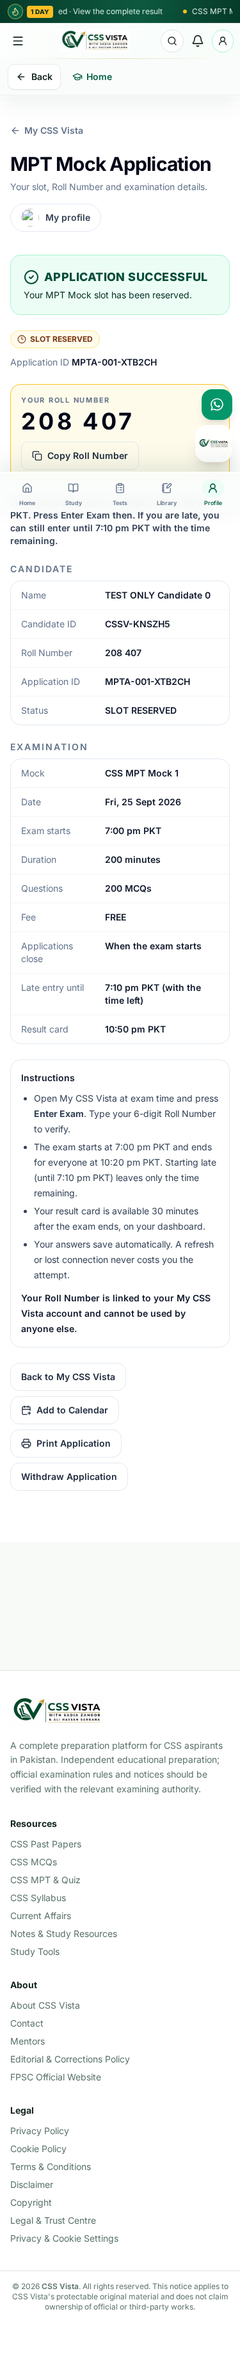
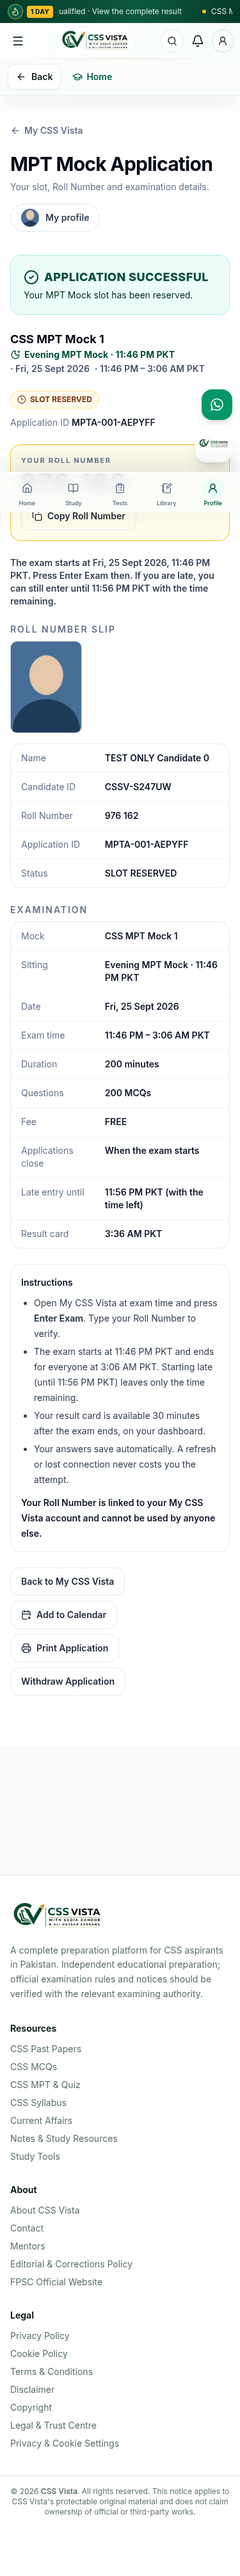
MPT: separate options row and account photo on the Roll Number slip
A shared options row (MPT Mocks, My Applications, My Results, My Wrong
MCQs, My Performance) appears on the dashboard MPT card and every MPT
page. My Results is the history filtered to completed mocks. The
application page's candidate block becomes the Roll Number Slip with
the student's account photo, which also prints. D-50.

Claude-Session: https://claude.ai/code/session_01EWzYWafhkUdt1VpHf4DEAd

diff --git a/src/pages/mpt/MptApplication.tsx b/src/pages/mpt/MptApplication.tsx
@@ -32,6 +32,19 @@ function RevealCountdown({ appliedAt, visibleAt, now }: { appliedAt: string; vis
   )
 }
 
+/** The photo from the student's own account, as on an admit card. */
+function CandidatePhoto({ show, name }: { show: boolean; name: string }) {
+  const [failed, setFailed] = useState(false)
+  if (!show || failed) {
+    return (
+      <div className="flex h-36 w-28 shrink-0 items-center justify-center rounded-lg border border-dashed border-slate-300 bg-slate-50 p-2 text-center text-xs text-slate-500">
+        <span>No photo. <Link to="/account/settings" className="font-semibold text-emerald-800 underline print:no-underline">Add one in your profile</Link></span>
+      </div>
+    )
+  }
+  return <img src="/api/student/photo-view.php" alt={`Photo of ${name}`} onError={() => setFailed(true)} className="h-36 w-28 shrink-0 rounded-lg border border-slate-300 object-cover" />
+}
+
 function ApplicationScreen({ code }: { code: string }) {
   const [params] = useSearchParams()
   const isNew = params.get('new') === '1'
@@ -120,7 +133,10 @@ function ApplicationScreen({ code }: { code: string }) {
       {application.status === 'WITHDRAWN' && <p className="rounded-xl border border-slate-200 bg-slate-50 p-3 text-sm text-slate-700">You withdrew this application. {state.phase === 'APPLICATIONS_OPEN' && <Link className="font-semibold text-emerald-800 underline" to={`/account/mpt/apply/${mock.slug}`}>Apply again</Link>}</p>}
 
       <section aria-labelledby="candidate-heading">
-        <h3 id="candidate-heading" className="mb-2 text-sm font-semibold uppercase tracking-[.14em] text-slate-500">Candidate</h3>
+        <h3 id="candidate-heading" className="mb-2 text-sm font-semibold uppercase tracking-[.14em] text-slate-500">Roll Number Slip</h3>
+        <div className="flex flex-col gap-4 sm:flex-row sm:items-start">
+          <CandidatePhoto show={Boolean(candidate.has_photo)} name={candidate.name} />
+          <div className="min-w-0 flex-1">
         <DetailList rows={[
           ['Name', candidate.name],
           ...(candidate.candidate_code ? [['Candidate ID', candidate.candidate_code] as [string, string]] : []),
@@ -128,6 +144,8 @@ function ApplicationScreen({ code }: { code: string }) {
           ['Application ID', <span className="font-mono">{application.application_code}</span>],
           ['Status', state.phase === 'ROLL_NUMBER_PENDING' || state.phase === 'SLOT_RESERVED' ? copy.confirmation.statusReserved : state.phase.replace(/_/g, ' ')],
         ]} />
+          </div>
+        </div>
       </section>
 
       <section aria-labelledby="exam-heading">
@@ -138,7 +156,7 @@ function ApplicationScreen({ code }: { code: string }) {
       <section className="rounded-2xl border border-slate-200 p-4 text-sm leading-6 text-slate-700">
         <h3 className="font-semibold text-slate-900">Instructions</h3>
         <ul className="mt-2 list-disc space-y-1 pl-5">
-          <li>Open My CSS Vista at exam time and press <strong>Enter Exam</strong>. Type your 6-digit Roll Number to verify.</li>
+          <li>Open My CSS Vista at exam time and press <strong>Enter Exam</strong>. Type your Roll Number to verify.</li>
           <li>The exam starts at {pktTime(mock.exam_open_at)} and ends for everyone at {pktTime(mock.exam_end_at)}. Starting late (until {pktTime(mock.entry_close_at)}) leaves only the time remaining.</li>
           <li>Your result card is available 30 minutes after the exam ends, on your dashboard.</li>
           <li>Your answers save automatically. A refresh or lost connection never costs you the attempt.</li>

diff --git a/src/pages/mpt/MptHistory.tsx b/src/pages/mpt/MptHistory.tsx
@@ -1,4 +1,6 @@
 import { useState } from 'react'
+import { useSearchParams } from 'react-router'
+import { MptMenu } from '@/components/mpt/MptMenu'
 import { mptApi } from '@/lib/mpt/api'
 import { copy, pktDate } from '@/lib/mpt/copy'
 import { AccountPage, SectionTitle } from '@/pages/account/shared'
@@ -8,13 +10,17 @@ import { ErrorNote, MptGate, PageSkeleton, secondaryButton, useMptLoad } from '.
 const FILTERS: Array<[string | null, string]> = [[null, 'All'], ['completed', 'Completed'], ['upcoming', 'Upcoming'], ['absent', 'Absent'], ['cancelled', 'Cancelled']]
 
 function History() {
+  const [params, setParams] = useSearchParams()
   const [page, setPage] = useState(1)
-  const [status, setStatus] = useState<string | null>(null)
+  const requested = params.get('status')
+  const status = FILTERS.some(([value]) => value === requested) ? requested : null
+  const setStatus = (value: string | null) => setParams(value ? { status: value } : {}, { replace: true })
   const load = useMptLoad((signal) => mptApi.history(page, status, signal), [page, status])
   const data = load.data
   const pages = data ? Math.max(1, Math.ceil(data.total / data.per_page)) : 1
   return (
     <div className="space-y-6">
+      <MptMenu current={status === 'completed' ? '/account/mpt/history?status=completed' : '/account/mpt/history'} />
       <div role="group" aria-label="Filter by status" className="flex flex-wrap gap-2">
         {FILTERS.map(([value, label]) => (
           <button key={label} type="button" aria-pressed={status === value} onClick={() => { setStatus(value); setPage(1) }}
@@ -52,9 +58,12 @@ function History() {
 }
 
 export default function MptHistory() {
+  const [params] = useSearchParams()
+  const results = params.get('status') === 'completed'
   return (
-    <AccountPage title="My MPT History" intro="Every MPT Mock you applied for, with its Roll Number, status and official score.">
-      <MptGate><History /></MptGate>
+    <AccountPage title={results ? 'My MPT Results' : 'My MPT Applications'}
+      intro={results ? 'Every MPT Mock you completed, with its official score. Open one to see its result card.' : 'Every MPT Mock you applied for, with its Roll Number, status and official score.'}>
+      <MptGate><History key={params.get('status') ?? 'all'} /></MptGate>
     </AccountPage>
   )
 }

diff --git a/src/components/mpt/MptMenu.tsx b/src/components/mpt/MptMenu.tsx
@@ -1,0 +1,31 @@
+import { Link } from 'react-router'
+import { Award, CalendarClock, ClipboardList, TrendingUp, XCircle } from 'lucide-react'
+
+/** The separate MPT options, each opening its own page (owner request: not mixed together). */
+export const MPT_MENU = [
+  { to: '/account/mpt', label: 'MPT Mocks', hint: 'Apply · Enter exam', Icon: CalendarClock },
+  { to: '/account/mpt/history', label: 'My Applications', hint: 'Roll Numbers & status', Icon: ClipboardList },
+  { to: '/account/mpt/history?status=completed', label: 'My Results', hint: 'Result cards & scores', Icon: Award },
+  { to: '/account/mpt/mistakes', label: 'My Wrong MCQs', hint: 'Mistakes to revise', Icon: XCircle },
+  { to: '/account/mpt/performance', label: 'My Performance', hint: 'Progress by subject', Icon: TrendingUp },
+] as const
+
+export function MptMenu({ current }: { current?: string }) {
+  return (
+    <nav aria-label="MPT options" className="grid grid-cols-2 gap-2 sm:grid-cols-5">
+      {MPT_MENU.map(({ to, label, hint, Icon }) => {
+        const active = current === to
+        return (
+          <Link key={to} to={to} aria-current={active ? 'page' : undefined}
+            className={`flex min-h-16 items-center gap-3 rounded-xl border p-3 text-left ${active ? 'border-emerald-800 bg-emerald-50' : 'border-slate-200 bg-white hover:border-emerald-700'}`}>
+            <Icon aria-hidden="true" className="h-5 w-5 shrink-0 text-emerald-800" />
+            <span className="min-w-0">
+              <span className="block text-sm font-bold text-slate-950">{label}</span>
+              <span className="block text-xs text-slate-500">{hint}</span>
+            </span>
+          </Link>
+        )
+      })}
+    </nav>
+  )
+}

diff --git a/src/components/mpt/DashboardMptCard.tsx b/src/components/mpt/DashboardMptCard.tsx
@@ -5,6 +5,7 @@ import { copy } from '@/lib/mpt/copy'
 import { useMptFlowEnabled } from '@/lib/mpt/useMptFlow'
 import { useServerClock } from '@/lib/mpt/useServerClock'
 import { MptHeroCard, pickCurrentCard } from './MptHeroCard'
+import { MptMenu } from './MptMenu'
 
 /**
  * The dashboard is the only notification channel (Section 1A #7): it shows the
@@ -31,11 +32,12 @@ export function DashboardMptCard() {
       {current
         ? <MptHeroCard card={current} now={now} onBoundary={reload} />
         : <p className="rounded-2xl border border-dashed border-slate-300 p-5 text-sm text-slate-600">{copy.hub.noMocks}</p>}
-      <div className="flex flex-wrap gap-x-4 text-sm font-semibold">
-        <Link to="/account/mpt" className="inline-flex min-h-11 items-center text-emerald-800 underline-offset-4 hover:underline">My MPT Mocks</Link>
-        {data.latest && <Link to={`/account/mpt/results/${data.latest.application_code}`} className="inline-flex min-h-11 items-center text-emerald-800 underline-offset-4 hover:underline">{copy.dashboard.viewResult}: {data.latest.result.score} / {data.latest.result.total_marks}</Link>}
-        {data.latest && <Link to="/account/mpt/mistakes" className="inline-flex min-h-11 items-center text-emerald-800 underline-offset-4 hover:underline">{copy.dashboard.mistakesTitle}</Link>}
-      </div>
+      {data.latest && (
+        <Link to={`/account/mpt/results/${data.latest.application_code}`} className="inline-flex min-h-11 items-center text-sm font-semibold text-emerald-800 underline-offset-4 hover:underline">
+          {copy.dashboard.viewResult}: {data.latest.result.score} / {data.latest.result.total_marks}
+        </Link>
+      )}
+      <MptMenu />
     </div>
   )
 }

diff --git a/src/pages/mpt/MptArea.tsx b/src/pages/mpt/MptArea.tsx
@@ -9,6 +9,7 @@ import { StatusBadge } from '@/components/mpt/StatusBadge'
 import { ScoreChart } from '@/components/mpt/ScoreChart'
 import { ErrorNote, MptGate, PageSkeleton, secondaryButton, useMptLoad } from './common'
 import { MockSlot } from '@/components/mpt/MockSlot'
+import { MptMenu } from '@/components/mpt/MptMenu'
 
 const fmt = (value: number | null, suffix = '') => (value === null ? '—' : `${Number.isInteger(value) ? value : value.toFixed(1)}${suffix}`)
 
@@ -85,6 +86,7 @@ function Area() {
   const { stats, trend, latest, history } = data
   return (
     <div className="space-y-10">
+      <MptMenu current="/account/mpt" />
       {current
         ? <MptHeroCard card={current} now={now} onBoundary={load.reload} />
         : <p className="rounded-2xl border border-dashed border-slate-300 p-6 text-sm text-slate-600">{copy.hub.noMocks}</p>}

diff --git a/src/pages/mpt/MptPerformance.tsx b/src/pages/mpt/MptPerformance.tsx
@@ -1,4 +1,5 @@
 import { Link } from 'react-router'
+import { MptMenu } from '@/components/mpt/MptMenu'
 import { mptApi } from '@/lib/mpt/api'
 import { copy } from '@/lib/mpt/copy'
 import { AccountPage, SectionTitle } from '@/pages/account/shared'
@@ -59,6 +60,7 @@ function Performance() {
 export default function MptPerformance() {
   return (
     <AccountPage title="My MPT Performance" intro="Calculated only from your completed, server-scored MPT Mocks.">
+      <div className="mb-6"><MptMenu current="/account/mpt/performance" /></div>
       <MptGate><Performance /></MptGate>
     </AccountPage>
   )

diff --git a/src/pages/mpt/MptMistakes.tsx b/src/pages/mpt/MptMistakes.tsx
@@ -1,4 +1,5 @@
 import { useState } from 'react'
+import { MptMenu } from '@/components/mpt/MptMenu'
 import { mptApi, type MptMistake } from '@/lib/mpt/api'
 import { copy, mockSlotLabel, pktDate } from '@/lib/mpt/copy'
 import { AccountPage } from '@/pages/account/shared'
@@ -61,6 +62,7 @@ function Mistakes() {
 export default function MptMistakes() {
   return (
     <AccountPage title={copy.dashboard.mistakesTitle} intro={copy.dashboard.mistakesIntro}>
+      <div className="mb-6"><MptMenu current="/account/mpt/mistakes" /></div>
       <MptGate><Mistakes /></MptGate>
     </AccountPage>
   )

diff --git a/src/lib/mpt/copy.ts b/src/lib/mpt/copy.ts
@@ -179,7 +179,7 @@ export const copy = {
     viewAll: 'View All History',
     viewPerformance: 'View Full Performance',
     viewResult: 'View Result Card',
-    mistakesTitle: 'My Wrong Answers',
+    mistakesTitle: 'My Wrong MCQs',
     mistakesIntro: 'Every question you answered incorrectly in your completed MPT Mocks, with the correct answer, so you can work on it.',
     mistakesEmpty: 'Your wrong answers appear here once a completed mock’s results are out (30 minutes after it ends).',
     mistakesLink: (n: number) => `${n} wrong answer${n === 1 ? '' : 's'} to review`,

diff --git a/src/lib/mpt/api.ts b/src/lib/mpt/api.ts
@@ -55,7 +55,7 @@ export type MptCard = {
   slots_available?: number | null
 }
 
-export type MptCandidate = { name: string; email: string; mobile: string | null; candidate_code: string | null }
+export type MptCandidate = { name: string; email: string; mobile: string | null; candidate_code: string | null; has_photo?: boolean }
 
 export type MptSubjectScore = { subject: string; questions: number; attempted: number; correct: number; incorrect: number; score: number; accuracy: number | null }
 

diff --git a/public/api/_mpt.php b/public/api/_mpt.php
@@ -458,7 +458,7 @@ function mpt_state(PDO $pdo, array $mock, ?array $application, ?array $attempt, 
 
 function mpt_candidate_profile(PDO $pdo, array $session, bool $create = false): array
 {
-    $profile = $pdo->prepare('SELECT display_name,phone,whatsapp FROM student_profiles WHERE user_id=?');
+    $profile = $pdo->prepare('SELECT display_name,phone,whatsapp,profile_photo_path,profile_photo_bytes FROM student_profiles WHERE user_id=?');
     $profile->execute([$session['user_id']]);
     $row = $profile->fetch() ?: [];
     $code = $pdo->prepare('SELECT candidate_code FROM mpt_candidates WHERE user_id=?');
@@ -478,6 +478,8 @@ function mpt_candidate_profile(PDO $pdo, array $session, bool $create = false): 
         'email' => (string)$session['email'],
         'mobile' => ($row['phone'] ?? '') !== '' ? (string)$row['phone'] : (($row['whatsapp'] ?? '') !== '' ? (string)$row['whatsapp'] : null),
         'candidate_code' => $candidateCode,
+        // The account photo is shown on the Roll Number slip, from /api/student/photo-view.php.
+        'has_photo' => ($row['profile_photo_path'] ?? '') !== '' && (int)($row['profile_photo_bytes'] ?? 0) > 0,
     ];
 }
 

diff --git a/docs/mpt/DECISIONS.md b/docs/mpt/DECISIONS.md
@@ -427,3 +427,12 @@ one to start. A student also keeps seeing every mock they have applied to until 
 ends, so an applicant can still enter a running mock and see its status. When a mock
 starts, the following one takes its place for new applications. Mocks further ahead
 still exist (D-48) but are not listed.
+
+**D-50 · Separate MPT options, and the photo on the Roll Number slip** — owner
+- The dashboard MPT card, My CSS Vista MPT area, history, wrong-MCQ and performance pages
+  share one options row: MPT Mocks, My Applications, My Results, My Wrong MCQs, My
+  Performance. Each opens its own page. My Results is the history filtered to completed
+  mocks (`/account/mpt/history?status=completed`), so no new route was needed.
+- The application page's candidate block is now the **Roll Number Slip** and shows the
+  photo from the student's own account (`/api/student/photo-view.php`, owner-only). The
+  photo is printed with the slip. Without a photo it links to the profile to add one.
